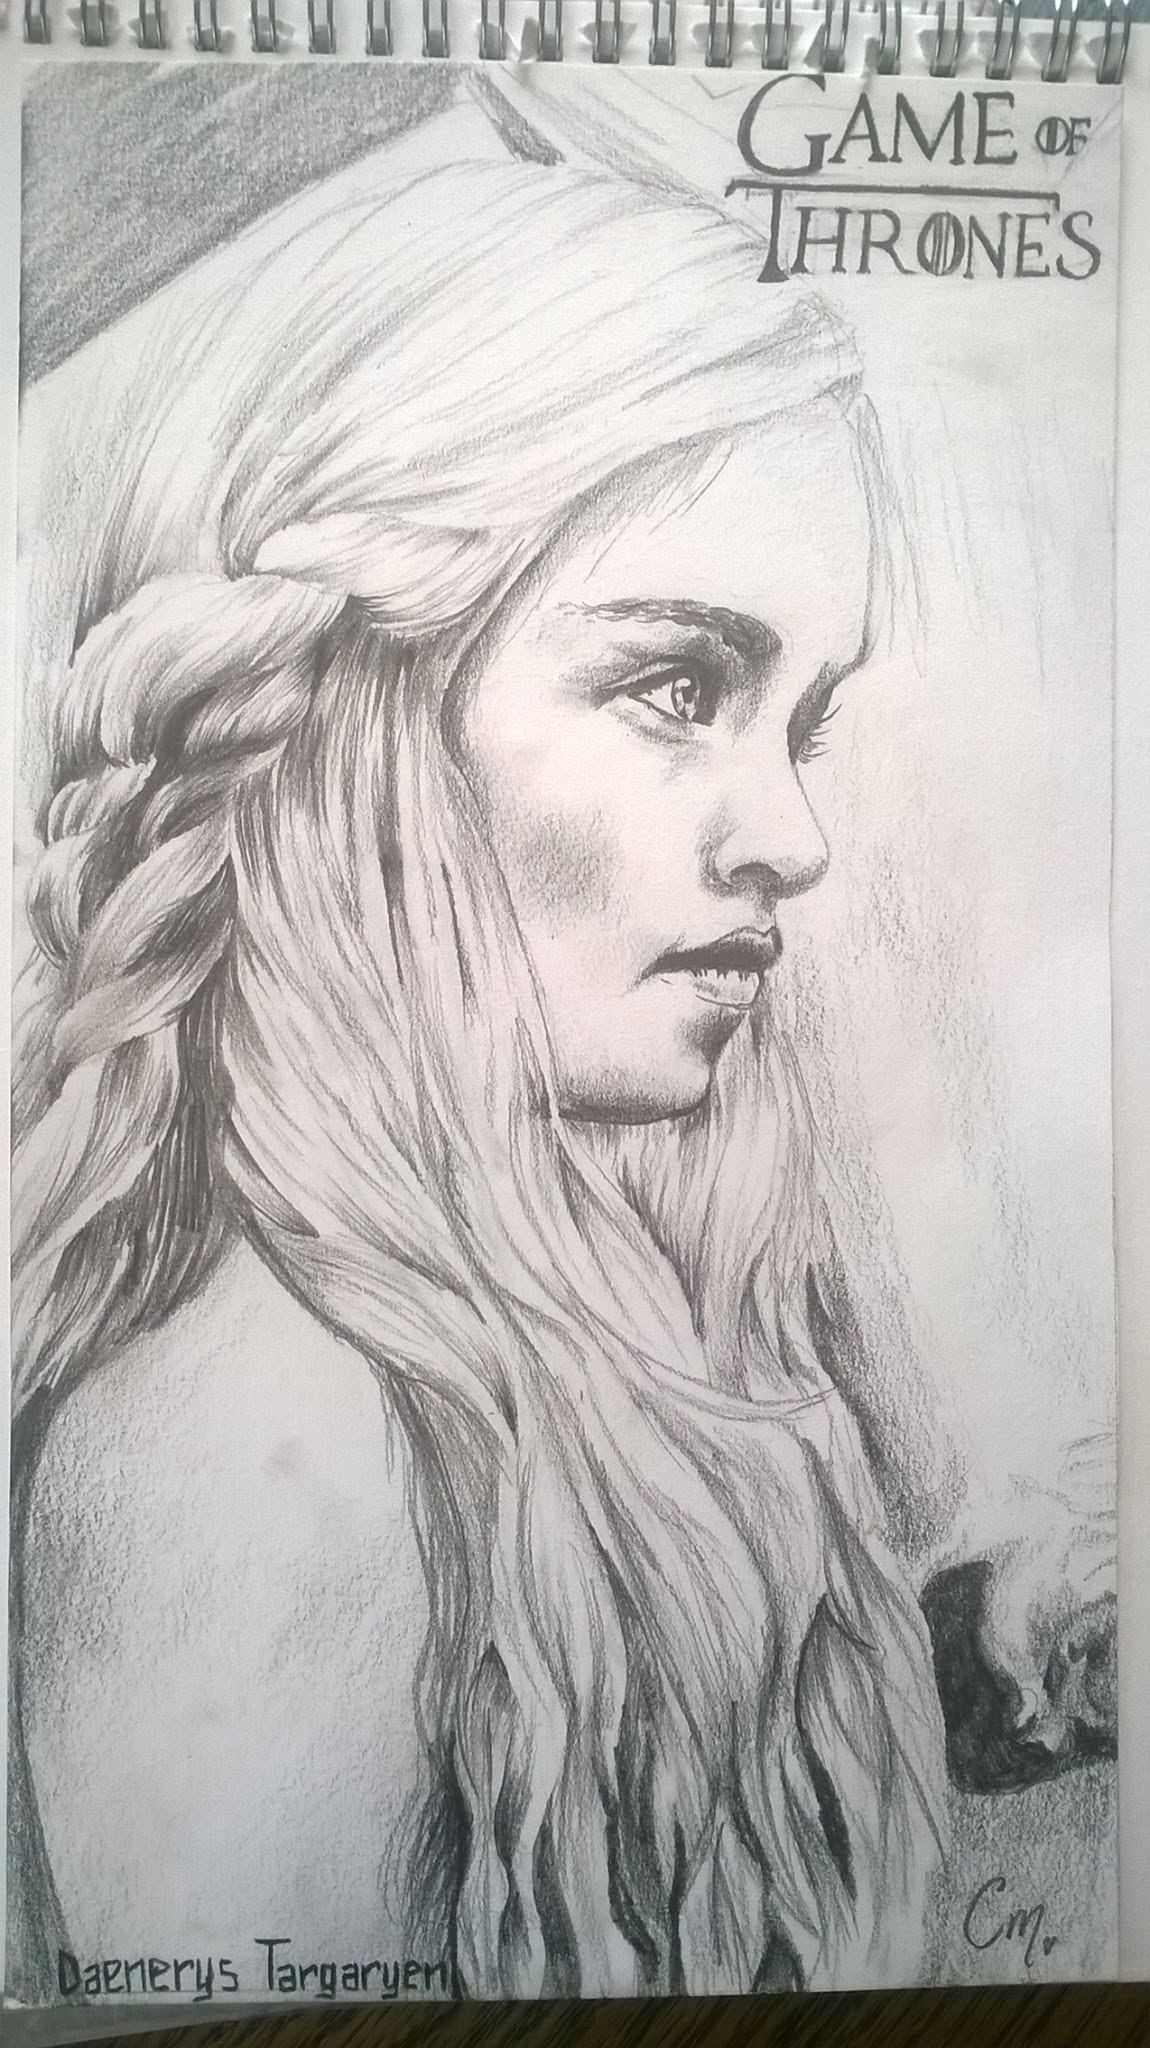
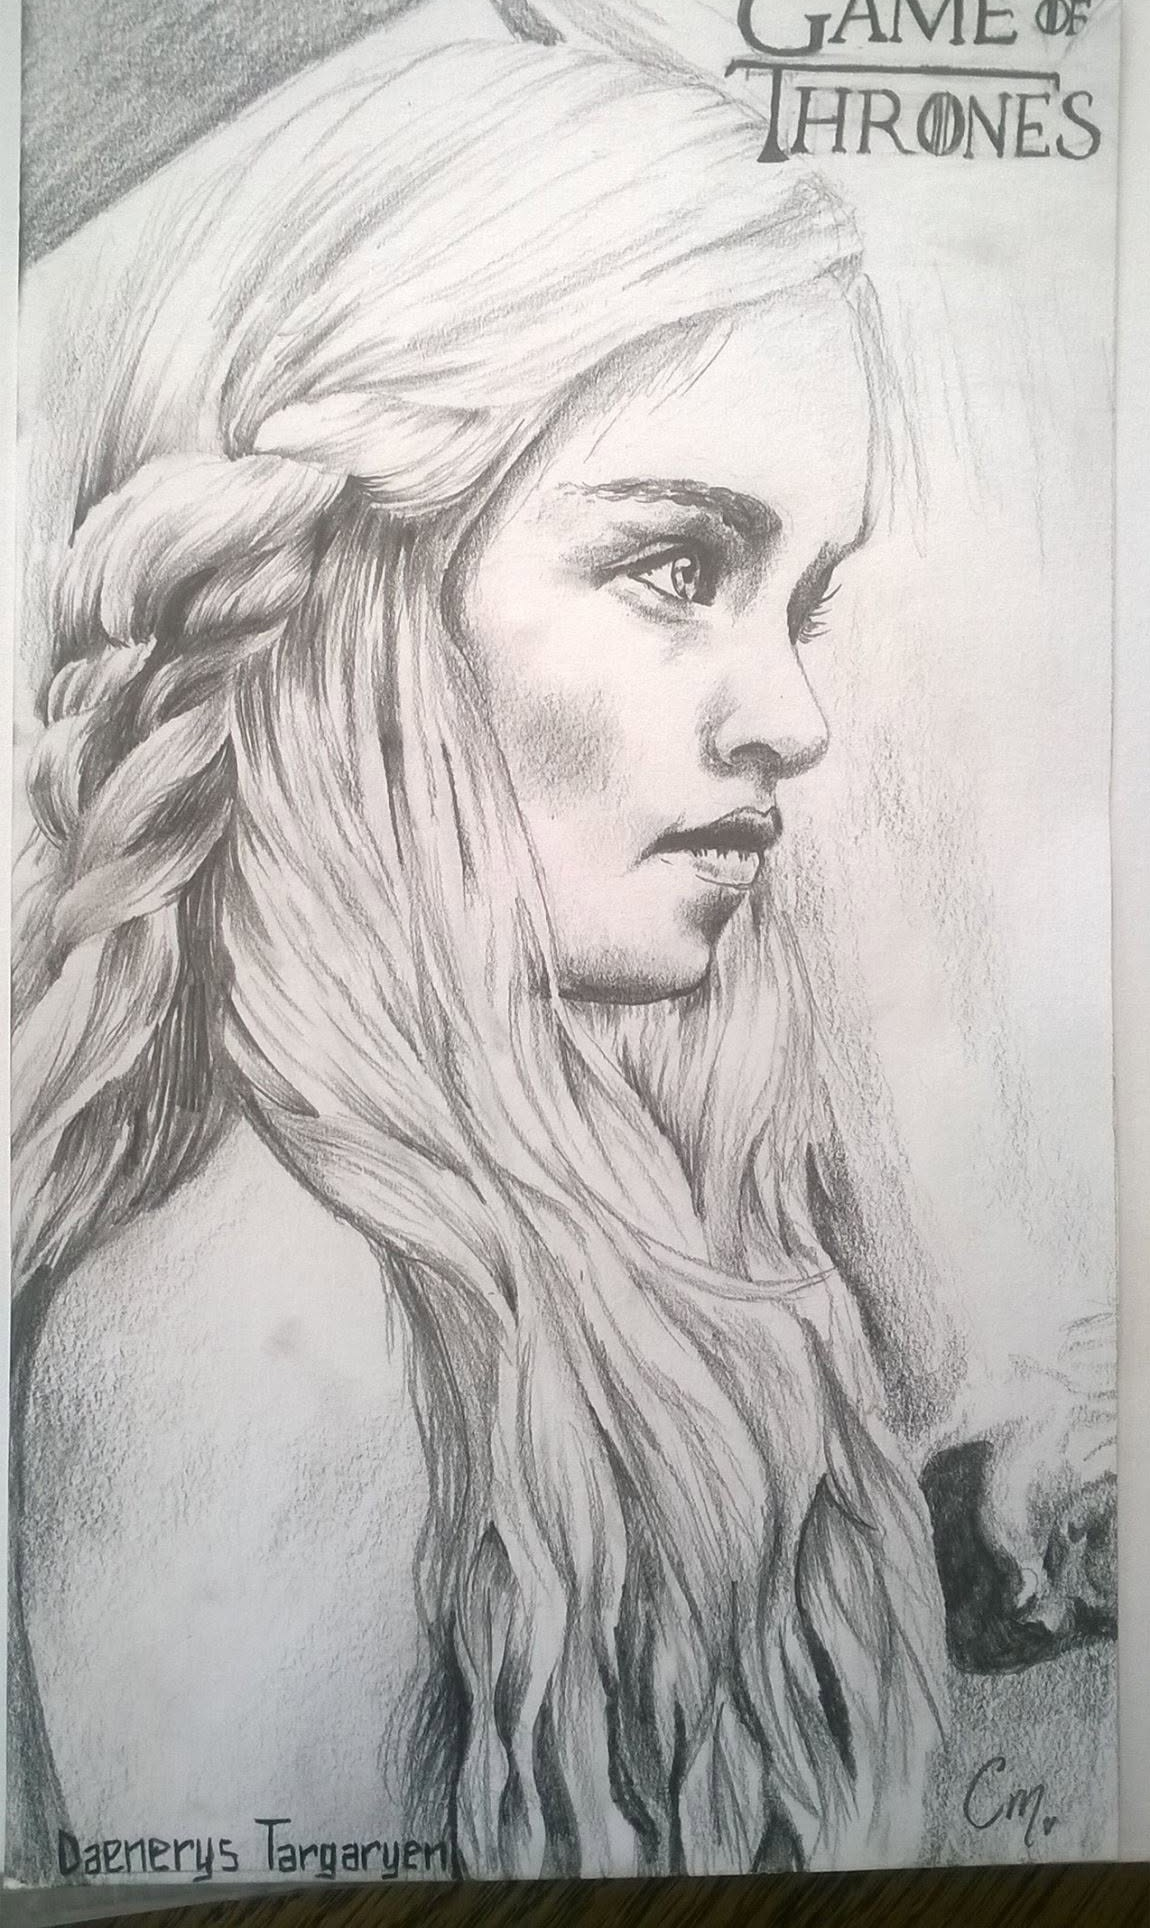
Update print titles, remove listings, and crop portraits.

diff --git a/src/content/site.ts b/src/content/site.ts
@@ -312,27 +312,6 @@ export const site = {
       tags: ["coloured pencil", "portrait"],
     },
     {
-      slug: "nyane",
-      title: "Nyane",
-      category: "prints",
-      price: 25,
-      sku: "CH-115",
-      available: true,
-      image: "/artworks/06-nyane-portrait-march-10.jpg",
-      alt: "Finished coloured pencil portrait of Nyane with purple hair in two buns",
-      summary: "Finished coloured pencil portrait, March 2019.",
-      description: [
-        "Finished coloured pencil portrait from March 2019.",
-        "Preview image from Chloe's public Facebook page. The price is a stand-in and does not mean this drawing is official merchandise or currently for sale.",
-      ],
-      details: [
-        { label: "Medium", value: "Coloured pencil" },
-        { label: "Materials", value: "Faber-Castell Polychromos on Daler Rowney paper" },
-        { label: "Date", value: "March 2019" },
-      ],
-      tags: ["coloured pencil", "portrait"],
-    },
-    {
       slug: "the-nun",
       title: "The Nun",
       category: "prints",
@@ -507,18 +486,18 @@ export const site = {
       tags: ["graphite", "portrait"],
     },
     {
-      slug: "flower-crown",
-      title: "Flower crown",
+      slug: "huda-beauty",
+      title: "Huda Beauty",
       category: "prints",
       price: 25,
       sku: "CH-127",
       available: true,
       image: "/artworks/18-flower-crown-portrait.jpg",
-      alt: "Coloured pencil portrait of a woman wearing a flower crown",
-      summary: "Finished coloured pencil portrait.",
+      alt: "Finished coloured pencil portrait of Huda Beauty",
+      summary: "Finished coloured pencil portrait of Huda Beauty (Huda Kattan).",
       description: [
-        "Finished coloured pencil portrait.",
-        "Preview image from Chloe's gallery. A higher-resolution file can replace it later. The price is a stand-in and does not mean this drawing is official merchandise or currently for sale.",
+        "Finished coloured pencil portrait of Huda Beauty (Huda Kattan).",
+        "Preview image from Chloe's gallery. The price is a stand-in and does not mean this drawing is official merchandise or licensed.",
       ],
       details: [
         { label: "Medium", value: "Coloured pencil" },
@@ -602,18 +581,18 @@ export const site = {
       tags: ["graphite", "portrait"],
     },
     {
-      slug: "hoodie-and-crown",
-      title: "Hoodie and crown",
+      slug: "hailee-steinfeld",
+      title: "Hailee Steinfeld",
       category: "prints",
       price: 25,
       sku: "CH-133",
       available: true,
       image: "/artworks/24-hoodie-crown-portrait.jpg",
-      alt: "Coloured pencil portrait of a woman in a grey hoodie wearing a gold crown",
-      summary: "Finished coloured pencil portrait.",
+      alt: "Finished coloured pencil portrait of Hailee Steinfeld",
+      summary: "Finished coloured pencil portrait of Hailee Steinfeld.",
       description: [
-        "Finished coloured pencil portrait.",
-        "Preview image from Chloe's gallery. A higher-resolution file can replace it later. The price is a stand-in and does not mean this drawing is official merchandise or currently for sale.",
+        "Finished coloured pencil portrait of Hailee Steinfeld.",
+        "Preview image from Chloe's gallery. The price is a stand-in and does not mean this drawing is official merchandise or licensed.",
       ],
       details: [
         { label: "Medium", value: "Coloured pencil" },
@@ -640,18 +619,18 @@ export const site = {
       tags: ["coloured pencil", "drawing"],
     },
     {
-      slug: "tiara",
-      title: "Tiara",
+      slug: "dua-lipa-crown",
+      title: "Dua Lipa, crown",
       category: "prints",
       price: 25,
       sku: "CH-135",
       available: true,
       image: "/artworks/26-tiara-smile-portrait.jpg",
-      alt: "Coloured pencil portrait of a smiling woman wearing a tiara",
-      summary: "Finished coloured pencil portrait.",
+      alt: "Finished coloured pencil portrait of Dua Lipa wearing a crown",
+      summary: "Finished coloured pencil portrait of Dua Lipa wearing a crown, from around her debut-album era.",
       description: [
-        "Finished coloured pencil portrait.",
-        "Preview image from Chloe's gallery. A higher-resolution file can replace it later. The price is a stand-in and does not mean this drawing is official merchandise or currently for sale.",
+        "Finished coloured pencil portrait of Dua Lipa wearing a crown, from around her debut-album era. This is a separate drawing from the other Dua Lipa portraits.",
+        "Preview image from Chloe's gallery. The price is a stand-in and does not mean this drawing is official merchandise or licensed.",
       ],
       details: [
         { label: "Medium", value: "Coloured pencil" },
@@ -678,25 +657,6 @@ export const site = {
       tags: ["coloured pencil", "portrait"],
     },
     {
-      slug: "moana",
-      title: "Moana",
-      category: "prints",
-      price: 25,
-      sku: "CH-137",
-      available: true,
-      image: "/artworks/28-moana.jpg",
-      alt: "Coloured pencil drawing of Moana in a circle of coloured pencils",
-      summary: "Finished coloured pencil drawing.",
-      description: [
-        "Finished coloured pencil drawing.",
-        "Preview image from Chloe's gallery. A higher-resolution file can replace it later. The price is a stand-in and does not mean this drawing is official merchandise or currently for sale.",
-      ],
-      details: [
-        { label: "Medium", value: "Coloured pencil" },
-      ],
-      tags: ["coloured pencil", "drawing"],
-    },
-    {
       slug: "beauty-and-the-beast",
       title: "Beauty and the Beast",
       category: "prints",
@@ -714,25 +674,6 @@ export const site = {
         { label: "Medium", value: "Coloured pencil" },
       ],
       tags: ["coloured pencil", "drawing"],
-    },
-    {
-      slug: "portrait-in-shadow",
-      title: "Portrait in shadow",
-      category: "prints",
-      price: 25,
-      sku: "CH-139",
-      available: true,
-      image: "/artworks/30-man-black-background.jpg",
-      alt: "Coloured pencil portrait of a man against a black background",
-      summary: "Finished coloured pencil portrait.",
-      description: [
-        "Finished coloured pencil portrait.",
-        "Preview image from Chloe's gallery. A higher-resolution file can replace it later. The price is a stand-in and does not mean this drawing is official merchandise or currently for sale.",
-      ],
-      details: [
-        { label: "Medium", value: "Coloured pencil" },
-      ],
-      tags: ["coloured pencil", "portrait"],
     },
     {
       slug: "bruno-mars",
@@ -754,18 +695,18 @@ export const site = {
       tags: ["coloured pencil", "portrait"],
     },
     {
-      slug: "cosmic-portrait",
-      title: "Cosmic portrait",
+      slug: "the-bfg",
+      title: "The BFG",
       category: "prints",
       price: 25,
       sku: "CH-141",
       available: true,
       image: "/artworks/34-cosmic-portrait.jpg",
-      alt: "Coloured pencil drawing of a figure and an older face against a starry nebula",
-      summary: "Finished coloured pencil drawing.",
+      alt: "Finished coloured pencil drawing of the BFG",
+      summary: "Finished coloured pencil drawing of the BFG.",
       description: [
-        "Finished coloured pencil drawing.",
-        "Preview image from Chloe's gallery. A higher-resolution file can replace it later. The price is a stand-in and does not mean this drawing is official merchandise or currently for sale.",
+        "Finished coloured pencil drawing of the BFG.",
+        "Preview image from Chloe's gallery. The price is a stand-in and does not mean this drawing is official merchandise or licensed.",
       ],
       details: [
         { label: "Medium", value: "Coloured pencil" },
@@ -792,56 +733,18 @@ export const site = {
       tags: ["coloured pencil", "portrait"],
     },
     {
-      slug: "red-split-portrait",
-      title: "Red split portrait",
+      slug: "rihanna",
+      title: "Rihanna",
       category: "prints",
       price: 25,
       sku: "CH-143",
       available: true,
       image: "/artworks/35-red-split-portrait.jpg",
-      alt: "Coloured pencil portrait split between natural skin and bright red",
-      summary: "Finished coloured pencil portrait.",
+      alt: "Finished coloured pencil portrait of Rihanna",
+      summary: "Finished coloured pencil portrait of Rihanna.",
       description: [
-        "Finished coloured pencil portrait.",
-        "Preview image from Chloe's gallery. A higher-resolution file can replace it later. The price is a stand-in and does not mean this drawing is official merchandise or currently for sale.",
-      ],
-      details: [
-        { label: "Medium", value: "Coloured pencil" },
-      ],
-      tags: ["coloured pencil", "portrait"],
-    },
-    {
-      slug: "smiling-portrait",
-      title: "Smiling portrait",
-      category: "prints",
-      price: 25,
-      sku: "CH-144",
-      available: true,
-      image: "/artworks/36-smiling-bw-man.jpg",
-      alt: "Graphite portrait of a smiling man",
-      summary: "Finished graphite portrait.",
-      description: [
-        "Finished graphite portrait.",
-        "Preview image from Chloe's gallery. A higher-resolution file can replace it later. The price is a stand-in and does not mean this drawing is official merchandise or currently for sale.",
-      ],
-      details: [
-        { label: "Medium", value: "Graphite" },
-      ],
-      tags: ["graphite", "portrait"],
-    },
-    {
-      slug: "double-portrait",
-      title: "Double portrait",
-      category: "prints",
-      price: 25,
-      sku: "CH-145",
-      available: true,
-      image: "/artworks/37-two-women-portrait.jpg",
-      alt: "Coloured pencil double portrait of two young women",
-      summary: "Finished coloured pencil portrait.",
-      description: [
-        "Finished coloured pencil portrait.",
-        "Preview image from Chloe's gallery. A higher-resolution file can replace it later. The price is a stand-in and does not mean this drawing is official merchandise or currently for sale.",
+        "Finished coloured pencil portrait of Rihanna.",
+        "Preview image from Chloe's gallery. The price is a stand-in and does not mean this drawing is official merchandise or licensed.",
       ],
       details: [
         { label: "Medium", value: "Coloured pencil" },
@@ -876,25 +779,6 @@ export const site = {
       available: true,
       image: "/artworks/39-ariana-bunny.jpg",
       alt: "Coloured pencil portrait of Ariana Grande wearing black bunny ears",
-      summary: "Finished coloured pencil portrait.",
-      description: [
-        "Finished coloured pencil portrait.",
-        "Preview image from Chloe's gallery. A higher-resolution file can replace it later. The price is a stand-in and does not mean this drawing is official merchandise or currently for sale.",
-      ],
-      details: [
-        { label: "Medium", value: "Coloured pencil" },
-      ],
-      tags: ["coloured pencil", "portrait"],
-    },
-    {
-      slug: "the-kiss",
-      title: "The kiss",
-      category: "prints",
-      price: 25,
-      sku: "CH-148",
-      available: true,
-      image: "/artworks/40-couple-kiss.jpg",
-      alt: "Coloured pencil portrait of a couple kissing in profile",
       summary: "Finished coloured pencil portrait.",
       description: [
         "Finished coloured pencil portrait.",
@@ -952,25 +836,6 @@ export const site = {
       available: true,
       image: "/artworks/43-rainbow-hair-portrait.jpg",
       alt: "Coloured pencil portrait of a woman with rainbow-coloured hair",
-      summary: "Finished coloured pencil portrait.",
-      description: [
-        "Finished coloured pencil portrait.",
-        "Preview image from Chloe's gallery. A higher-resolution file can replace it later. The price is a stand-in and does not mean this drawing is official merchandise or currently for sale.",
-      ],
-      details: [
-        { label: "Medium", value: "Coloured pencil" },
-      ],
-      tags: ["coloured pencil", "portrait"],
-    },
-    {
-      slug: "conor-mcgregor",
-      title: "Conor McGregor",
-      category: "prints",
-      price: 25,
-      sku: "CH-152",
-      available: true,
-      image: "/artworks/44-irish-flag-portrait.jpg",
-      alt: "Coloured pencil portrait of Conor McGregor with an Irish flag motif",
       summary: "Finished coloured pencil portrait.",
       description: [
         "Finished coloured pencil portrait.",
@@ -1096,18 +961,18 @@ export const site = {
       tags: ["graphite", "portrait"],
     },
     {
-      slug: "geometric-headpiece",
-      title: "Geometric headpiece",
+      slug: "rihanna-headwrap",
+      title: "Rihanna, headwrap",
       category: "prints",
       price: 25,
       sku: "CH-159",
       available: true,
       image: "/artworks/52-geometric-headpiece.jpg",
-      alt: "Coloured pencil portrait of a woman with a geometric gold headpiece and a blunt fringe",
-      summary: "Finished coloured pencil portrait.",
+      alt: "Finished coloured pencil portrait of Rihanna in a headwrap",
+      summary: "Finished coloured pencil portrait of Rihanna in a headwrap.",
       description: [
-        "Finished coloured pencil portrait.",
-        "Preview image from Chloe's gallery. A higher-resolution file can replace it later. The price is a stand-in and does not mean this drawing is official merchandise or currently for sale.",
+        "Finished coloured pencil portrait of Rihanna in a headwrap. This is a separate drawing from the other Rihanna portrait.",
+        "Preview image from Chloe's gallery. The price is a stand-in and does not mean this drawing is official merchandise or licensed.",
       ],
       details: [
         { label: "Medium", value: "Coloured pencil" },
